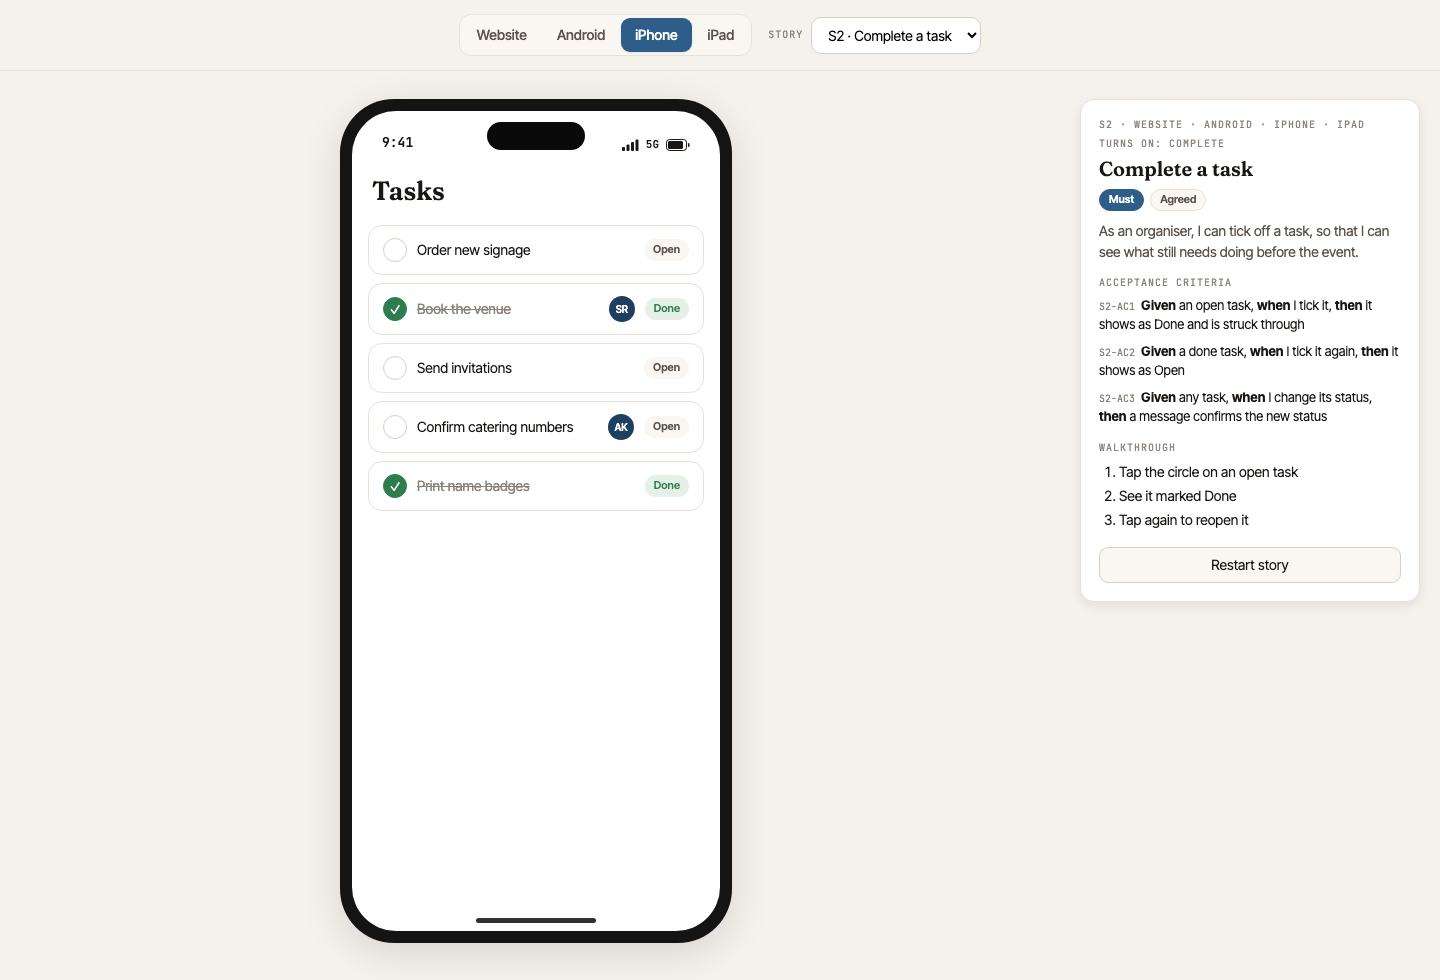
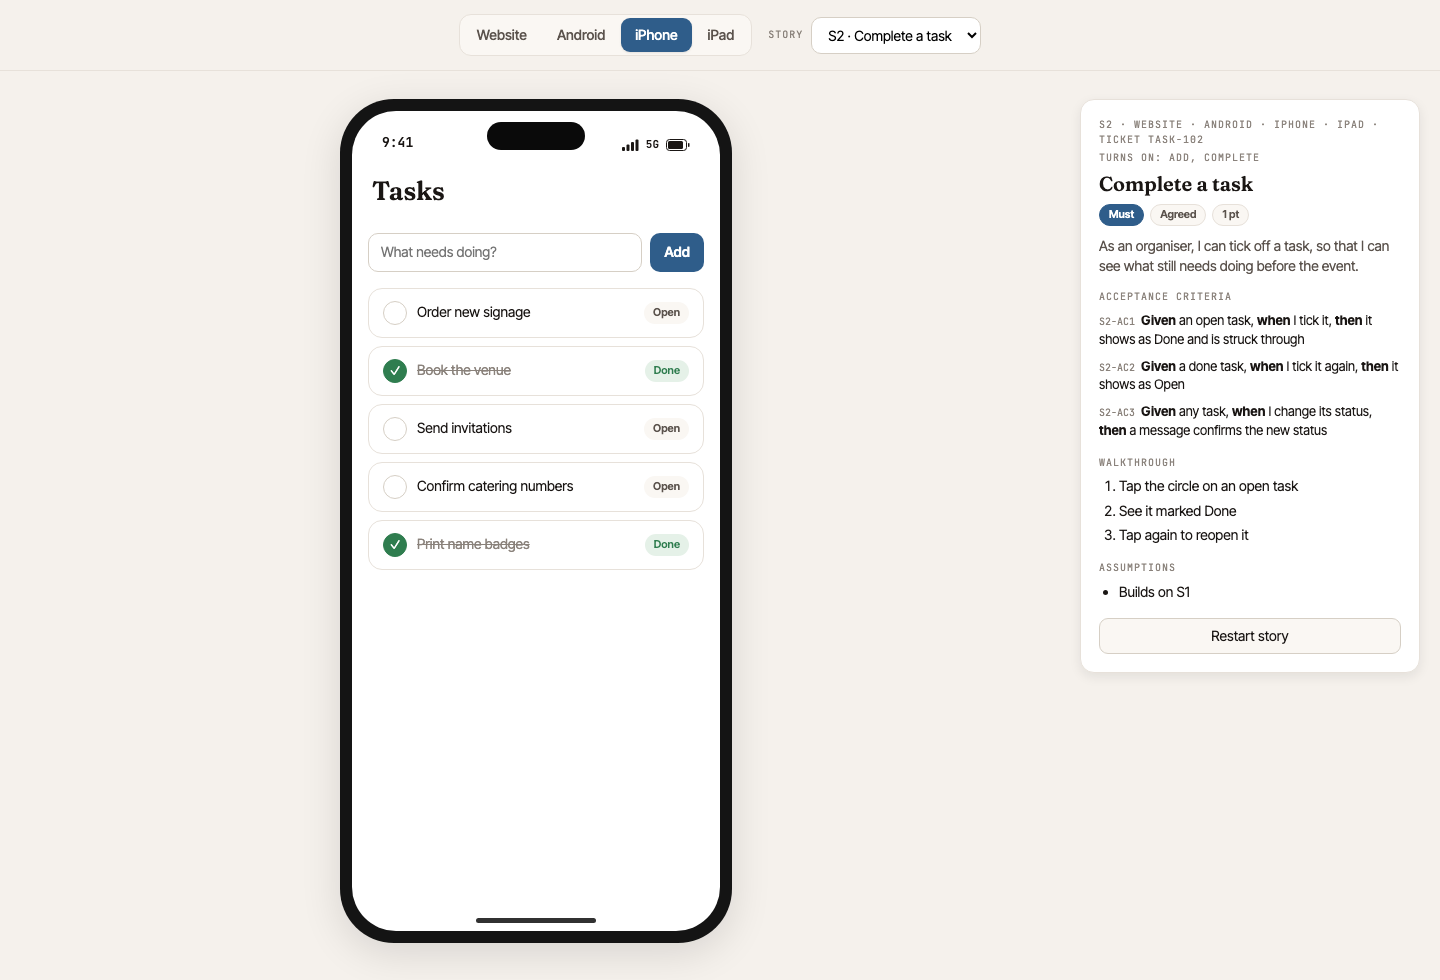
Make example stories build up in order; update README and screenshots

Changed region(s): [[0.75, 0.1224, 1.0, 0.6735], [0.25, 0.2143, 0.5, 0.5816]]

diff --git a/skills/design-by-story/assets/shell.html b/skills/design-by-story/assets/shell.html
@@ -193,6 +193,8 @@ button{font:inherit;color:inherit;cursor:pointer}
     "story": "As an organiser, I can add a task, so that nothing gets forgotten.",
     "priority": "must",
     "status": "agreed",
+    "points": 2,
+    "tracker": "TASK-101",
     "walkthrough": [
       "Start with an empty list",
       "Type a task and press Add",
@@ -205,7 +207,7 @@ button{font:inherit;color:inherit;cursor:pointer}
       },
       {
         "id": "S1-AC2",
-        "text": "Given I typed \"Book a photographer\", when I press Add, then it appears at the top of the list as Open"
+        "text": "Given I typed \"Book a photographer\", when I press Add, then it appears at the top of the list"
       },
       {
         "id": "S1-AC3",
@@ -228,6 +230,8 @@ button{font:inherit;color:inherit;cursor:pointer}
     "story": "As an organiser, I can tick off a task, so that I can see what still needs doing before the event.",
     "priority": "must",
     "status": "agreed",
+    "points": 1,
+    "tracker": "TASK-102",
     "walkthrough": [
       "Tap the circle on an open task",
       "See it marked Done",
@@ -249,7 +253,9 @@ button{font:inherit;color:inherit;cursor:pointer}
     ],
     "acNext": 3,
     "outOfScope": [],
-    "assumptions": [],
+    "assumptions": [
+      "Builds on S1"
+    ],
     "questions": []
   },
   "S3": {
@@ -257,6 +263,8 @@ button{font:inherit;color:inherit;cursor:pointer}
     "story": "As an organiser, I can show only open or done tasks, so that I can see what still needs doing without finished work in the way.",
     "priority": "could",
     "status": "in review",
+    "points": 3,
+    "tracker": "TASK-103",
     "walkthrough": [
       "Choose Open",
       "Only open tasks show",
@@ -283,7 +291,9 @@ button{font:inherit;color:inherit;cursor:pointer}
     ],
     "acNext": 4,
     "outOfScope": [],
-    "assumptions": [],
+    "assumptions": [
+      "Builds on S1–S2"
+    ],
     "questions": [
       "Should the chosen filter be remembered next time?"
     ]
@@ -293,6 +303,8 @@ button{font:inherit;color:inherit;cursor:pointer}
     "story": "As an organiser, I can delete a task I no longer need, so that cancelled work doesn't look outstanding.",
     "priority": "should",
     "status": "in review",
+    "points": 2,
+    "tracker": "TASK-104",
     "walkthrough": [
       "Press ✕ on a task",
       "Confirm with Delete",
@@ -316,16 +328,17 @@ button{font:inherit;color:inherit;cursor:pointer}
     "outOfScope": [
       "Undo after deleting"
     ],
-    "assumptions": [],
-    "questions": [
-      "If a deleted task was assigned to someone, are they told?"
-    ]
+    "assumptions": [
+      "Builds on S1–S3"
+    ],
+    "questions": []
   },
   "S5": {
     "title": "Assign a task",
     "story": "As an organiser, I can assign a task to a teammate, so that everyone knows who owns it.",
     "priority": "should",
     "status": "draft",
+    "tracker": "TASK-105",
     "walkthrough": [
       "Pick a teammate from the menu on a task",
       "Their initials appear on the task",
@@ -348,10 +361,12 @@ button{font:inherit;color:inherit;cursor:pointer}
     "acNext": 3,
     "outOfScope": [],
     "assumptions": [
+      "Builds on S1–S4",
       "Only the organiser assigns tasks"
     ],
     "questions": [
-      "Can a task have more than one owner?"
+      "Can a task have more than one owner?",
+      "If an assigned task is deleted, is its owner told?"
     ]
   }
 }
@@ -384,8 +399,9 @@ const DEFAULT_SEED = () => ({
 // that returns fresh data, and the features it switches on.
 //
 // Features are OFF unless the selected story lists them: their controls are
-// not rendered and their handlers are no-ops (see can()). "All stories" turns
-// on every story's features: the whole product.
+// not rendered and their handlers are no-ops (see can()). Stories build up in
+// order, so each one lists its own features plus every earlier story's.
+// "All stories" turns on every story's features: the whole product.
 const BEHAVIOUR = {
   S1: {
     devices: ['web', 'android', 'iphone', 'ipad'],
@@ -396,25 +412,25 @@ const BEHAVIOUR = {
   S2: {
     devices: ['web', 'android', 'iphone', 'ipad'],
     start: { web: 'list', android: 'list', iphone: 'list', ipad: 'list' },
-    features: ['complete'],
+    features: ['add', 'complete'],
     seed: DEFAULT_SEED,
   },
   S3: {
     devices: ['web', 'android', 'iphone', 'ipad'],
     start: { web: 'list', android: 'list', iphone: 'list', ipad: 'list' },
-    features: ['filter', 'complete'],
+    features: ['add', 'complete', 'filter'],
     seed: DEFAULT_SEED,
   },
   S4: {
     devices: ['web', 'android', 'iphone', 'ipad'],
     start: { web: 'list', android: 'list', iphone: 'list', ipad: 'list' },
-    features: ['delete'],
+    features: ['add', 'complete', 'filter', 'delete'],
     seed: DEFAULT_SEED,
   },
   S5: {
     devices: ['web'],  // only exclusion: assigning work is a desk job, done by the organiser on the website
     start: { web: 'list' },
-    features: ['assign'],
+    features: ['add', 'complete', 'filter', 'delete', 'assign'],
     seed: () => ({ ...DEFAULT_SEED(), tasks: DEFAULT_SEED().tasks.map(t => ({ ...t, who: null })) }),
   },
 };
@@ -456,7 +472,7 @@ function taskRow(device, t){
   const ui_ = ui[device];
   const check = can('complete')
     ? `<button class="check ${t.done ? 'on' : ''}" aria-pressed="${t.done}" aria-label="Mark ${esc(t.title)} ${t.done ? 'open' : 'done'}" onclick="toggleTask('${device}','${t.id}')">✓</button>` : '';
-  const who = t.who ? `<span class="av" title="${esc(PEOPLE[t.who])}">${t.who}</span>` : '';
+  const who = can('assign') && t.who ? `<span class="av" title="${esc(PEOPLE[t.who])}">${t.who}</span>` : '';
   const assign = can('assign') && device === 'web'
     ? `<select aria-label="Assign ${esc(t.title)}" onchange="assignTask('${device}','${t.id}', this.value)">
         <option value="">Unassigned</option>${Object.entries(PEOPLE).map(([k, n]) => `<option value="${k}" ${t.who === k ? 'selected' : ''}>${esc(n)}</option>`).join('')}
@@ -467,7 +483,7 @@ function taskRow(device, t){
       : `<button class="icon-btn" aria-label="Delete ${esc(t.title)}" onclick="askDelete('${device}','${t.id}')">✕</button>`;
   return `<div class="row ${t.done ? 'done' : ''}">
     <span class="l">${check}<span class="t">${esc(t.title)}</span></span>
-    <span class="r">${who}${assign}<span class="pill ${t.done ? 'done' : ''}">${t.done ? 'Done' : 'Open'}</span>${del}</span>
+    <span class="r">${who}${assign}${can('complete') ? `<span class="pill ${t.done ? 'done' : ''}">${t.done ? 'Done' : 'Open'}</span>` : ''}${del}</span>
   </div>`;
 }
 function taskRows(device){
@@ -573,7 +589,7 @@ function renderStoryPanel(){
     <div class="caps">${s.id} · ${s.devices.map(d => DEVICES[d]).join(' · ')}${s.tracker ? ` · ${TRACKER_URL ? `<a class="caps" href="${esc(TRACKER_URL.replace('{id}', s.tracker))}" target="_blank" rel="noopener">${TRACKER_LABEL} ${esc(s.tracker)}</a>` : `${TRACKER_LABEL} ${esc(s.tracker)}`}` : ''}</div>
     <div class="caps" style="margin-top:4px">Turns on: ${s.features.join(', ') || 'nothing'}</div>
     <h2>${esc(s.title)}</h2>
-    <div class="tags"><span class="tag pri-${s.priority.replace(/\W/g, '')}">${s.priority}</span><span class="tag">${s.status}</span>${s.points != null ? `<span class="tag" style="text-transform:none">${s.points} pts</span>` : ''}</div>
+    <div class="tags"><span class="tag pri-${s.priority.replace(/\W/g, '')}">${s.priority}</span><span class="tag">${s.status}</span>${s.points != null ? `<span class="tag" style="text-transform:none">${s.points} ${s.points === 1 ? 'pt' : 'pts'}</span>` : ''}</div>
     <p>${esc(s.story)}</p>
     <div class="caps">Acceptance criteria</div>
     ${s.ac.length ? `<ul class="acs">${s.ac.map(a => `<li><span class="ac-id mono">${a.id}</span>${gwt(a.text)}</li>`).join('')}</ul>` : '<p class="hint">None yet.</p>'}

diff --git a/README.md b/README.md
@@ -9,15 +9,26 @@ Pick a device and a story from the top bar. The prototype then:
 
 - resets to that story's data;
 - opens each device on the story's start screen;
-- shows the story alongside: priority, status, acceptance criteria (with IDs, in
-  Given/When/Then), a walkthrough and notes.
+- shows the story alongside: priority, status, story points, tracker ticket, acceptance
+  criteria (with IDs, in Given/When/Then), a walkthrough and notes.
 
-A story's features only work while that story is selected; "All stories" turns them all on.
+Stories build up in the order they'll be built: each story shows only what it and the
+stories before it add, so reviewers never see a later story's controls, labels or
+screens early. "All stories" shows the whole product.
+
 Links like `prototype.html#story=S2&device=iphone` open straight to a story on a device.
+For hosts that only keep plain `#name` links, the shell can write `#story-S2--iphone`
+instead.
 
 ![The same prototype in the iPhone frame, with a different story selected](docs/screenshot-iphone.png)
 
-The prototype shows stories but never edits them. To add, change or split a story, ask Claude.
+The prototype shows stories but never edits them. To add, change, move or split a
+story, ask Claude. Claude can also:
+
+- read stories from a tracker (Jira, Azure DevOps or similar) and, with your go-ahead,
+  write changes back, with a link to each story in the prototype;
+- match your existing designs (screenshots, Figma frames or a design system) instead
+  of its own default look.
 
 ## Install
 

diff --git a/skills/design-by-story/SKILL.md b/skills/design-by-story/SKILL.md
@@ -95,7 +95,7 @@ const BEHAVIOUR = {
   S1: {
     devices: ['web', 'android', 'iphone'],         // which frames this story applies to
     start: { web: 'search', android: 'search', iphone: 'search' }, // screen per device
-    features: ['save-search'],                      // what this story (and earlier ones it needs) switch on
+    features: ['save-search'],                      // this story's features plus every earlier story's
     seed: () => ({ user: SIGNED_IN, saved: [] }),  // fresh data for this story
   },
 };
@@ -187,7 +187,8 @@ Every interaction a story introduces gets a feature key, listed in that story's
   nothing fires outside the story, even from a stale DOM or the console.
 - **"All stories"** turns on every story's features at once: the whole product as it
   stands, on `DEFAULT_SEED`. Check that stories don't clash there.
-- A story that depends on another story's interaction lists both keys.
+- Because stories build up, each story lists its own feature keys plus every earlier
+  story's (S3 in the shell lists `['add', 'complete', 'filter']`).
 
 ## Several data cases in one story
 
